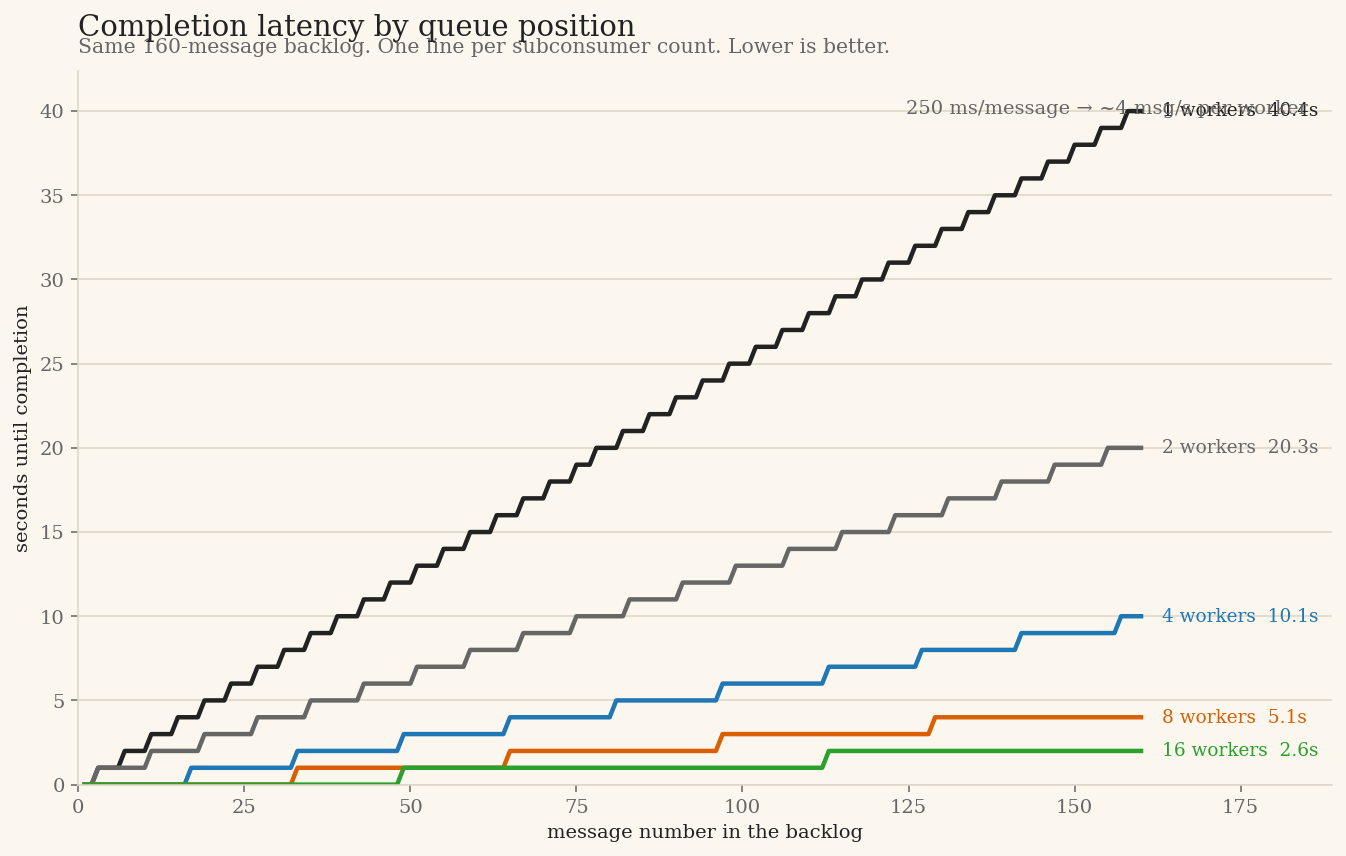
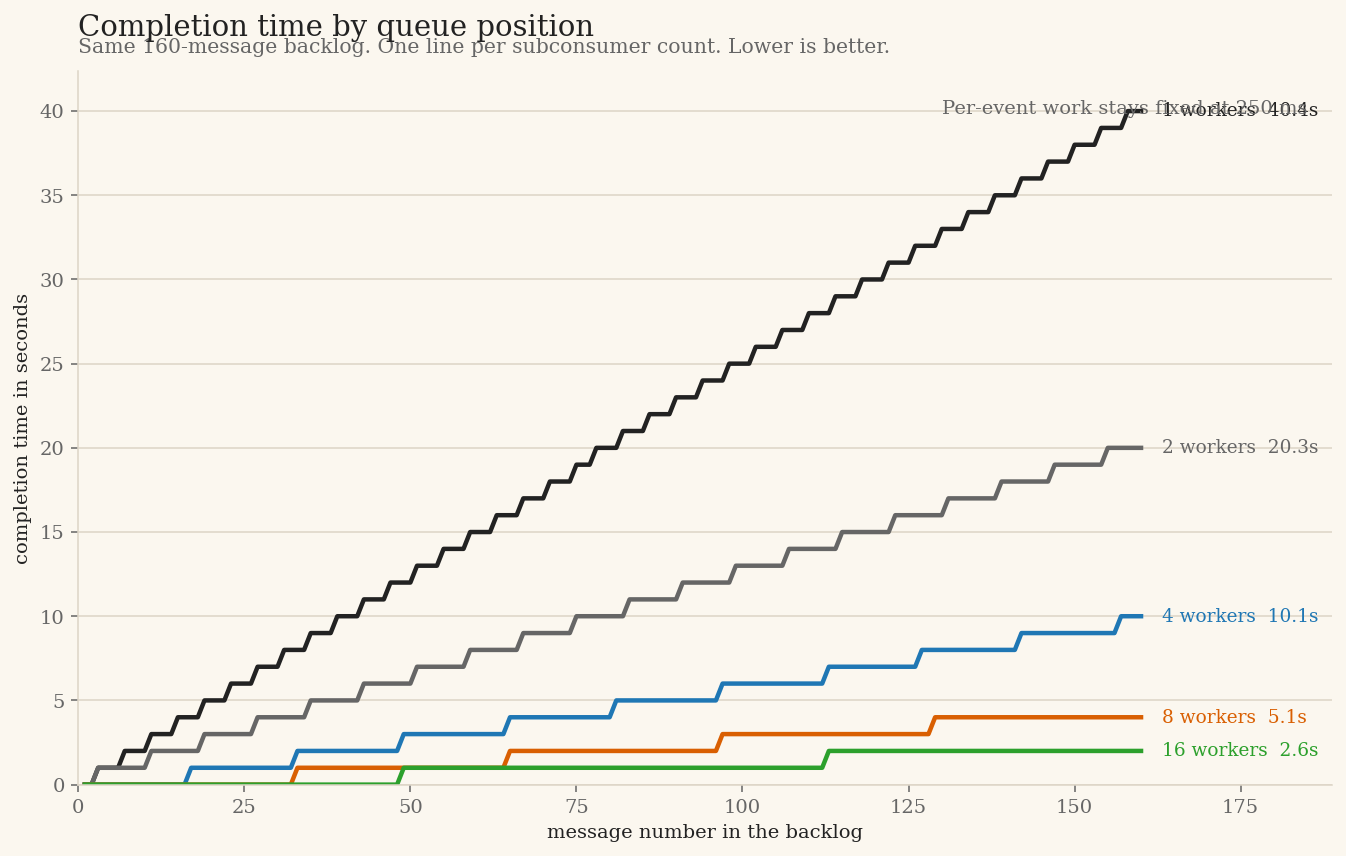
docs: rename completion latency chart

diff --git a/benchmark/subconsumer-scaling/completion_latency.py b/benchmark/subconsumer-scaling/completion_latency.py
@@ -80,8 +80,8 @@ def main() -> int:
     ax.grid(axis='y', color=GRID, linewidth=0.8)
     ax.set_axisbelow(True)
     ax.set_xlabel('message number in the backlog')
-    ax.set_ylabel('seconds until completion')
-    ax.set_title('Completion latency by queue position', loc='left', fontsize=15, color=FG, pad=18)
+    ax.set_ylabel('completion time in seconds')
+    ax.set_title('Completion time by queue position', loc='left', fontsize=15, color=FG, pad=18)
     ax.text(0.0, 1.02,
             'Same 160-message backlog. One line per subconsumer count. Lower is better.',
             transform=ax.transAxes, ha='left', va='bottom', fontsize=10.5, color=DIM)
@@ -100,7 +100,7 @@ def main() -> int:
                 f"{meta['workers']} workers  {meta['wall_s']:.1f}s",
                 color=color, va='center', ha='left', fontsize=9.5)
 
-    ax.text(0.98, 0.96, '250 ms/message → ~4 msg/s per worker',
+    ax.text(0.98, 0.96, 'Per-event work stays fixed at 250 ms',
             transform=ax.transAxes, ha='right', va='top', fontsize=10, color=DIM)
 
     fig.savefig(out, bbox_inches='tight')

diff --git a/README.md b/README.md
@@ -472,10 +472,10 @@ Observed drain times from the demo run above:
 | 8  | 31.3 msg/s | 5.1 s  |
 | 16 | 61.8 msg/s | 2.6 s  |
 
-The same data as a completion-latency view — one shared axis, one line per
-worker count, lower is better:
+The same data as a completion-time-by-queue-position view — one shared axis,
+one line per worker count, lower is better:
 
-<p align="center"><img src="docs/images/completion_latency.png" alt="Completion latency by queue position for the same 160-message backlog with 1, 2, 4, 8, and 16 subconsumers" width="760"></p>
+<p align="center"><img src="docs/images/completion_latency.png" alt="Completion time by queue position for the same 160-message backlog with 1, 2, 4, 8, and 16 subconsumers" width="760"></p>
 
 These are demo numbers, not a product claim. The point is narrower and more
 useful: when downstream work costs ~250 ms / message, one worker buys you ~4